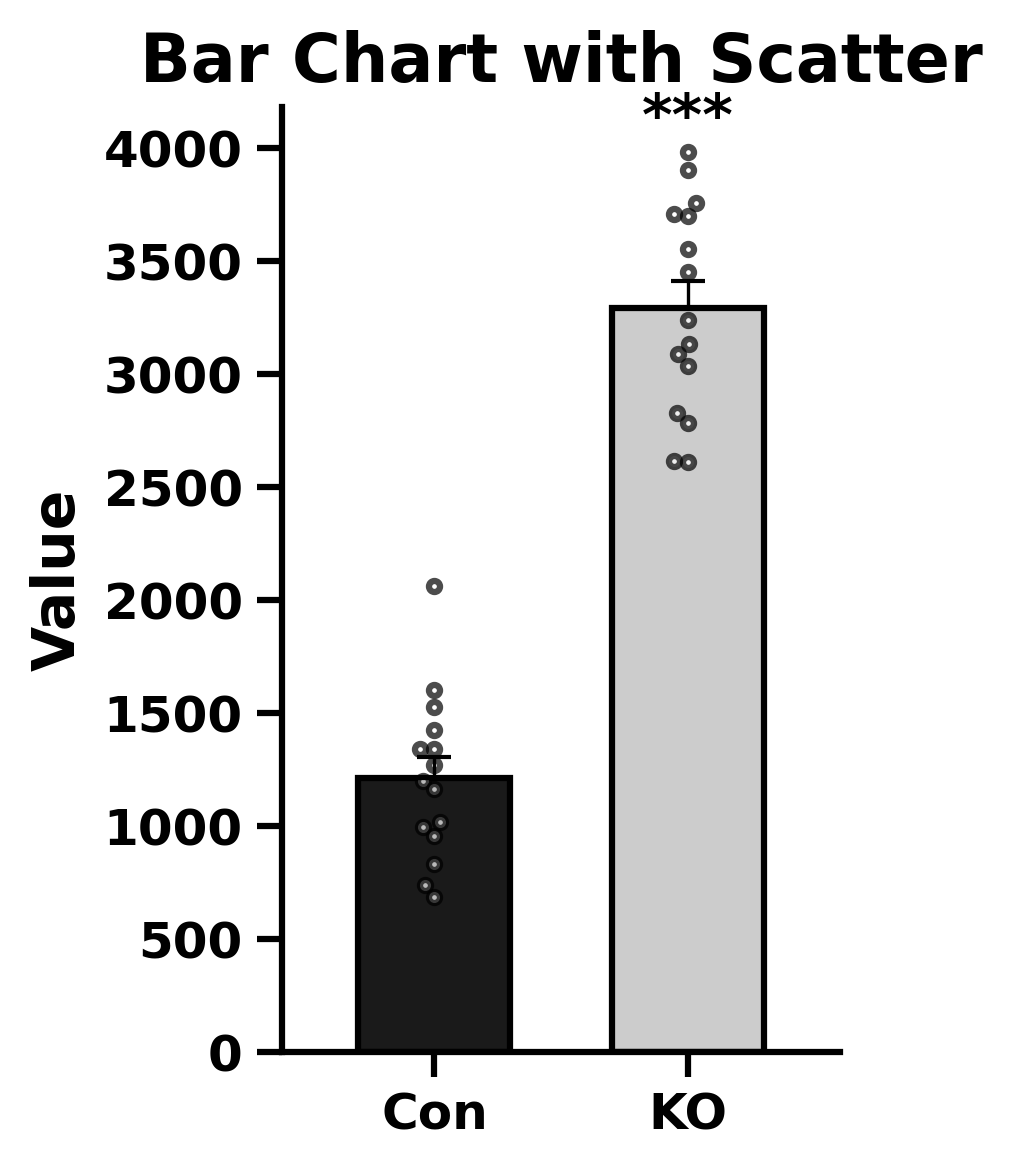
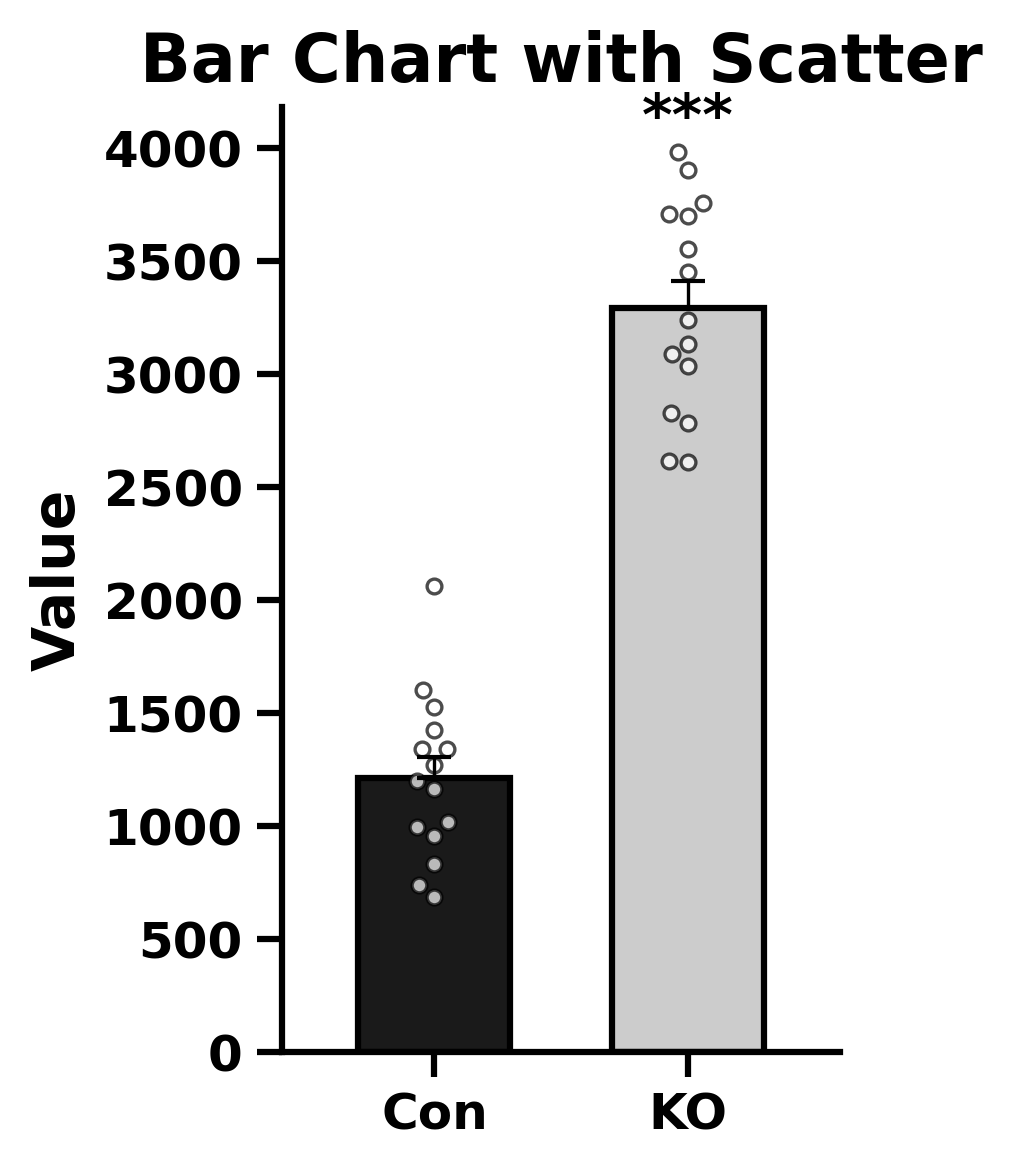
fix: clustered columns + bar scatter fixes
- bar.render: scatter_r default 2.0, read lines.linewidth from rcParams
- clustered_columns: comparison lines now reset per-category (fixes
  stars flying to sky across categories)
- clustered_columns: add missing fraction_length*5 offset to line_y
  (matching old calculate_line_y_position logic)
- clustered_columns: keep jitter denominator at 54 (user-tuned value)
- all tests pass, ruff clean

Changed region(s): [[0.6433, 0.1231, 0.7045, 0.4], [0.3982, 0.5846, 0.4595, 0.7692]]

diff --git a/mmcs/charts/_clustered_columns.py b/mmcs/charts/_clustered_columns.py
@@ -2,6 +2,7 @@ from __future__ import annotations
 
 from typing import Sequence
 
+import matplotlib.pyplot as plt
 import numpy as np
 from matplotlib.axes import Axes
 
@@ -15,6 +16,7 @@ def render(
     bar_width: float = 0.3,
     scatter_r: float = 1.5,
     comparisons: Sequence[tuple[int, int, int, int]] | None = None,
+    fraction_length: int = 20,
 ) -> Axes:
     n_categories = len(groups)
     all_means: list[list[float]] = []
@@ -57,11 +59,12 @@ def render(
                    align="center", color=colors[i])
 
         for i, d in enumerate(raw):
-            r_x = total / fig_w * scatter_r / 36
-            r_y = max(flat) / fig_h * scatter_r / 36 if max(flat) != 0 else scatter_r / 36
+            r_x = total / fig_w * scatter_r / 54
+            r_y = max(flat) / fig_h * scatter_r / 54 if max(flat) != 0 else scatter_r / 72
             x_jit = jitter(d, r_x, r_y) + x_positions[i]
             ax.scatter(x_jit, d, color="white", edgecolor="black",
-                       alpha=0.75, s=np.pi * scatter_r ** 2)
+                       alpha=0.75, linewidths=plt.rcParams.get("lines.linewidth", 1.0),
+                       s=np.pi * scatter_r ** 2)
 
         group_idx += 1
 
@@ -73,43 +76,55 @@ def render(
     ax.set_xticklabels(all_names, minor=True, rotation=45)
 
     if comparisons:
-        cat_ranges: list[tuple[int, int]] = []
+        cat_groups: dict[int, list[tuple[int, int, int]]] = {}
+        for cat_idx, sub_a, sub_b, n_stars in comparisons:
+            cat_groups.setdefault(cat_idx, []).append((sub_a, sub_b, n_stars))
+
         start = 0
-        for ms in all_means:
-            cat_ranges.append((start, start + len(ms) - 1))
-            start += len(ms)
-        _draw_comparisons(ax, comparisons, all_bar_pos, all_raw, all_means, all_errs, cat_ranges)
+        for cat_idx, cat_comps in cat_groups.items():
+            n_sub = len(all_means[cat_idx])
+            _draw_category_comparisons(
+                ax, cat_comps, all_bar_pos[start:start + n_sub],
+                all_raw[cat_idx], all_means[cat_idx], all_errs[cat_idx],
+                fraction_length,
+            )
+            start += n_sub
 
     return ax
 
 
-def _draw_comparisons(
+def _draw_category_comparisons(
     ax: Axes,
-    comparisons: Sequence[tuple[int, int, int, int]],
+    comps: list[tuple[int, int, int]],
     bar_pos: list[float],
-    all_raw: list[list[np.ndarray]],
-    all_means: list[list[float]],
-    all_errs: list[list[float]],
-    cat_ranges: list[tuple[int, int]],
+    raw_data: list[np.ndarray],
+    means: list[float],
+    errs: list[float],
+    fraction_length: int,
 ) -> None:
+    max_y_line = 0.0
     max_y_star = 0.0
-    min_gap = 400
+    min_gap = 20 * fraction_length
 
-    for cat_idx, sub_a, sub_b, n_stars in comparisons:
-        start, end = cat_ranges[cat_idx]
-        x1, x2 = bar_pos[start + sub_a], bar_pos[start + sub_b]
-        d_a = all_raw[cat_idx][sub_a]
-        d_b = all_raw[cat_idx][sub_b]
-        m_a, e_a = all_means[cat_idx][sub_a], all_errs[cat_idx][sub_a]
-        m_b, e_b = all_means[cat_idx][sub_b], all_errs[cat_idx][sub_b]
+    for sub_a, sub_b, n_stars in comps:
+        x1, x2 = bar_pos[sub_a], bar_pos[sub_b]
+        d_a, d_b = raw_data[sub_a], raw_data[sub_b]
+        m_a, e_a = means[sub_a], errs[sub_a]
+        m_b, e_b = means[sub_b], errs[sub_b]
 
         top = max(float(np.max(d_a)), m_a + e_a,
                   float(np.max(d_b)), m_b + e_b)
 
-        line_y = top if top - max_y_star > min_gap else max_y_star + min_gap
+        if top - max_y_star > min_gap:
+            max_y_line = top
+        else:
+            max_y_line += min_gap
+            top = max_y_line
+
+        line_y = top + fraction_length * 5
         max_y_star = max(line_y, max_y_star)
 
         ax.plot([x1, x1, x2, x2],
-                [line_y - 20, line_y, line_y, line_y - 20],
+                [line_y - fraction_length, line_y, line_y, line_y - fraction_length],
                 c="black", linewidth=1.0)
         ax.text((x1 + x2) / 2, line_y, "*" * n_stars, ha="center", va="bottom")

diff --git a/mmcs/charts/_bar.py b/mmcs/charts/_bar.py
@@ -21,7 +21,7 @@ def render(
     stars: Optional[Sequence[int]] = None,
     edge: bool = True,
     scatter_data: Optional[Sequence[np.ndarray]] = None,
-    scatter_r: float = 1.5,
+    scatter_r: float = 2.0,
 ) -> Axes:
     x_pos = np.arange(len(data))
     means = np.asarray(data)
@@ -49,7 +49,8 @@ def render(
             x_jit = jitter(raw, r_x, r_y) + x_pos[i]
 
             ax.scatter(x_jit, raw, color="white", edgecolor="black",
-                       alpha=0.7, s=np.pi * scatter_r ** 2)
+                       alpha=0.7, linewidths=plt.rcParams.get("lines.linewidth", 1.0),
+                       s=np.pi * scatter_r ** 2)
 
     if stars is not None:
         _draw_stars_simple(ax, means, errors or [0] * len(data), stars,
